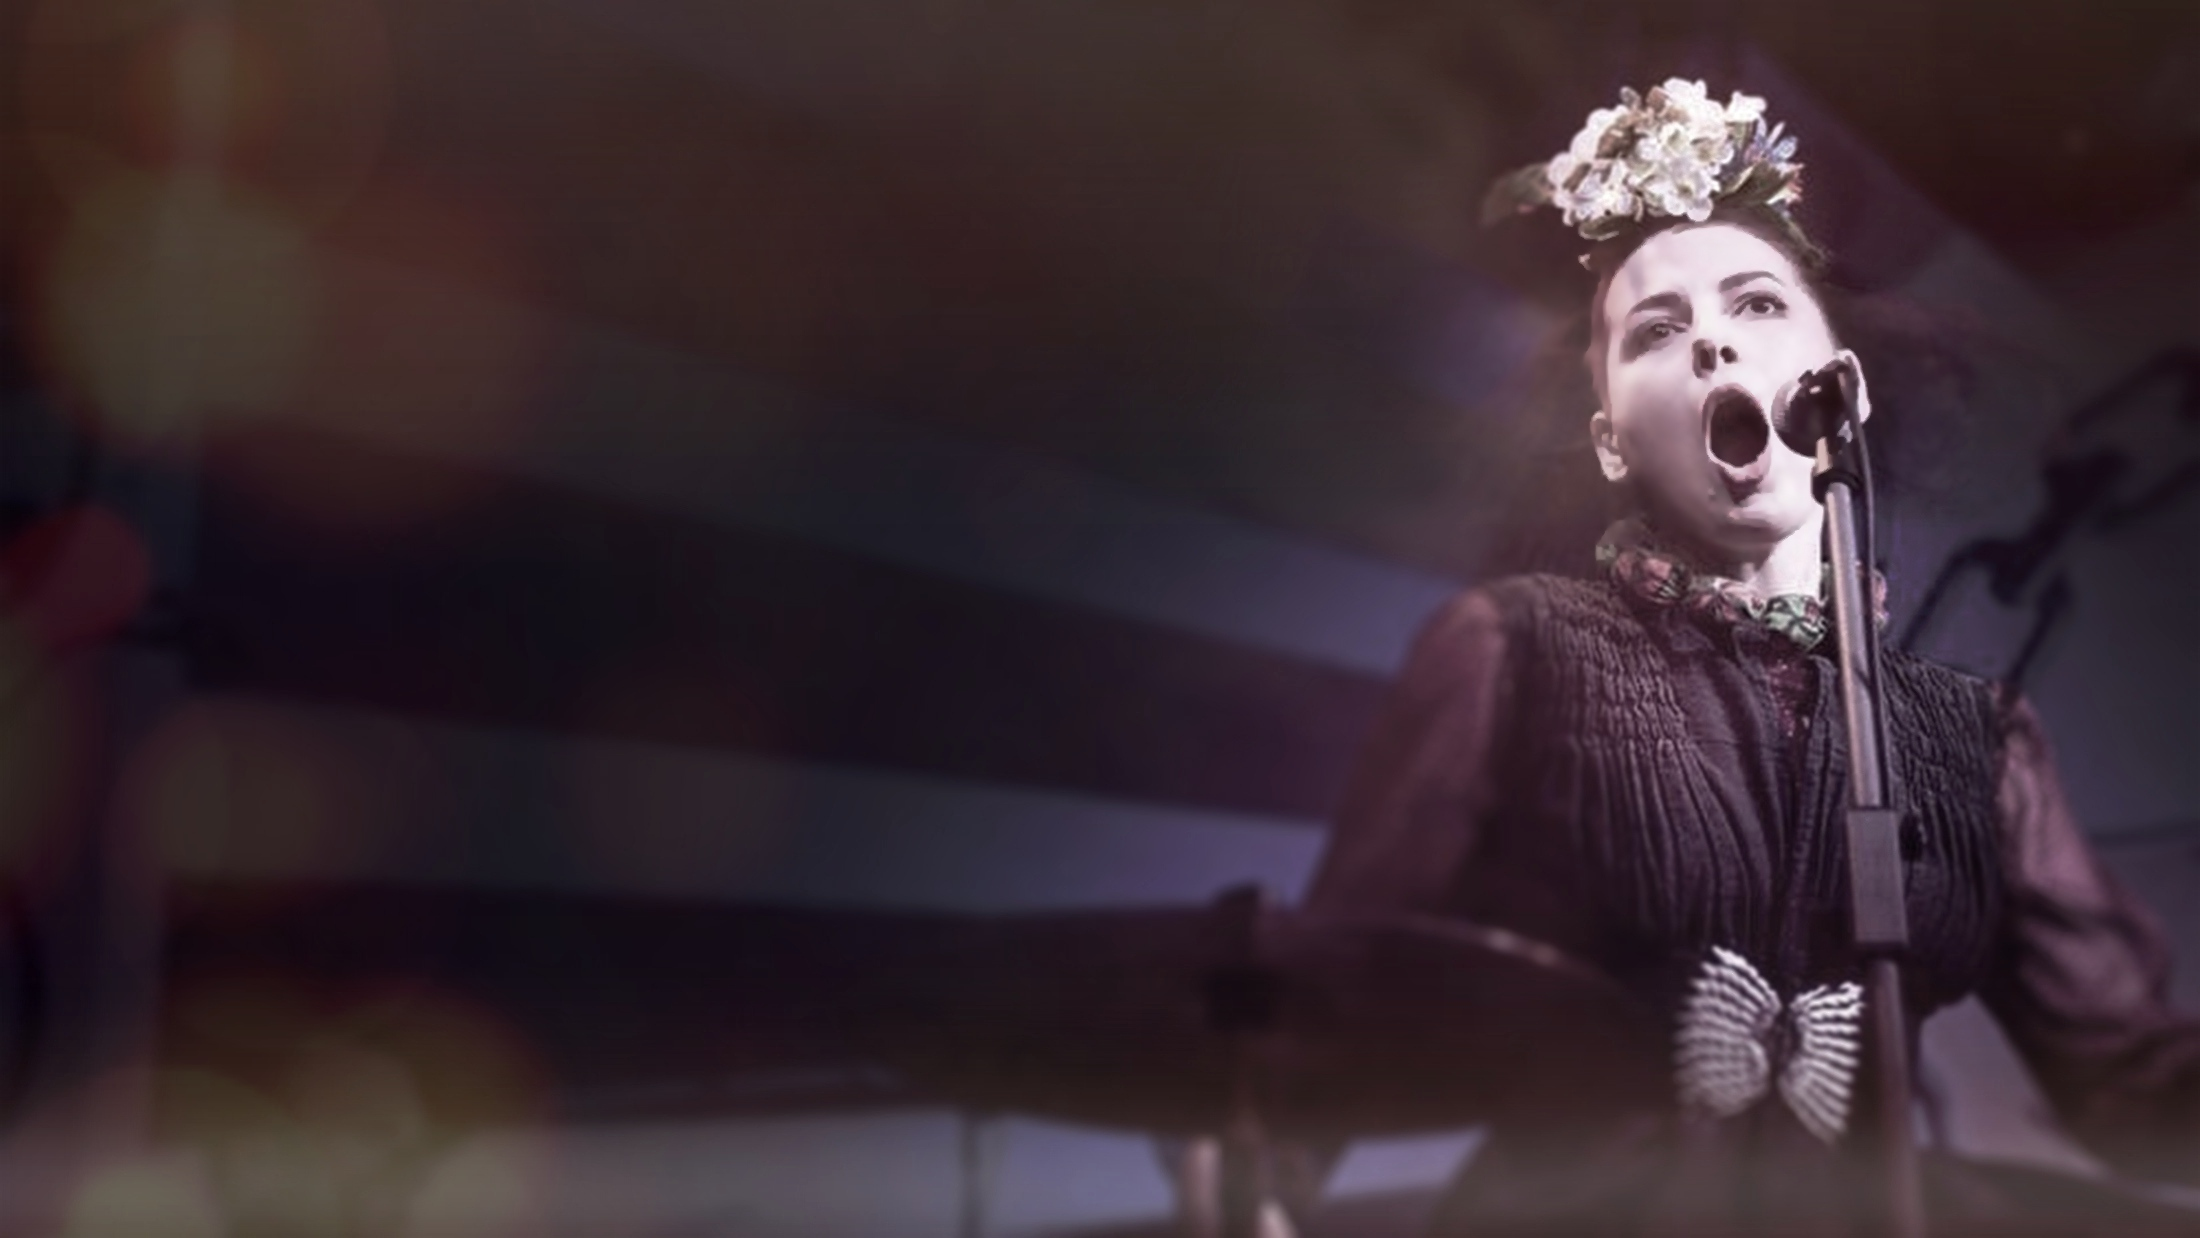
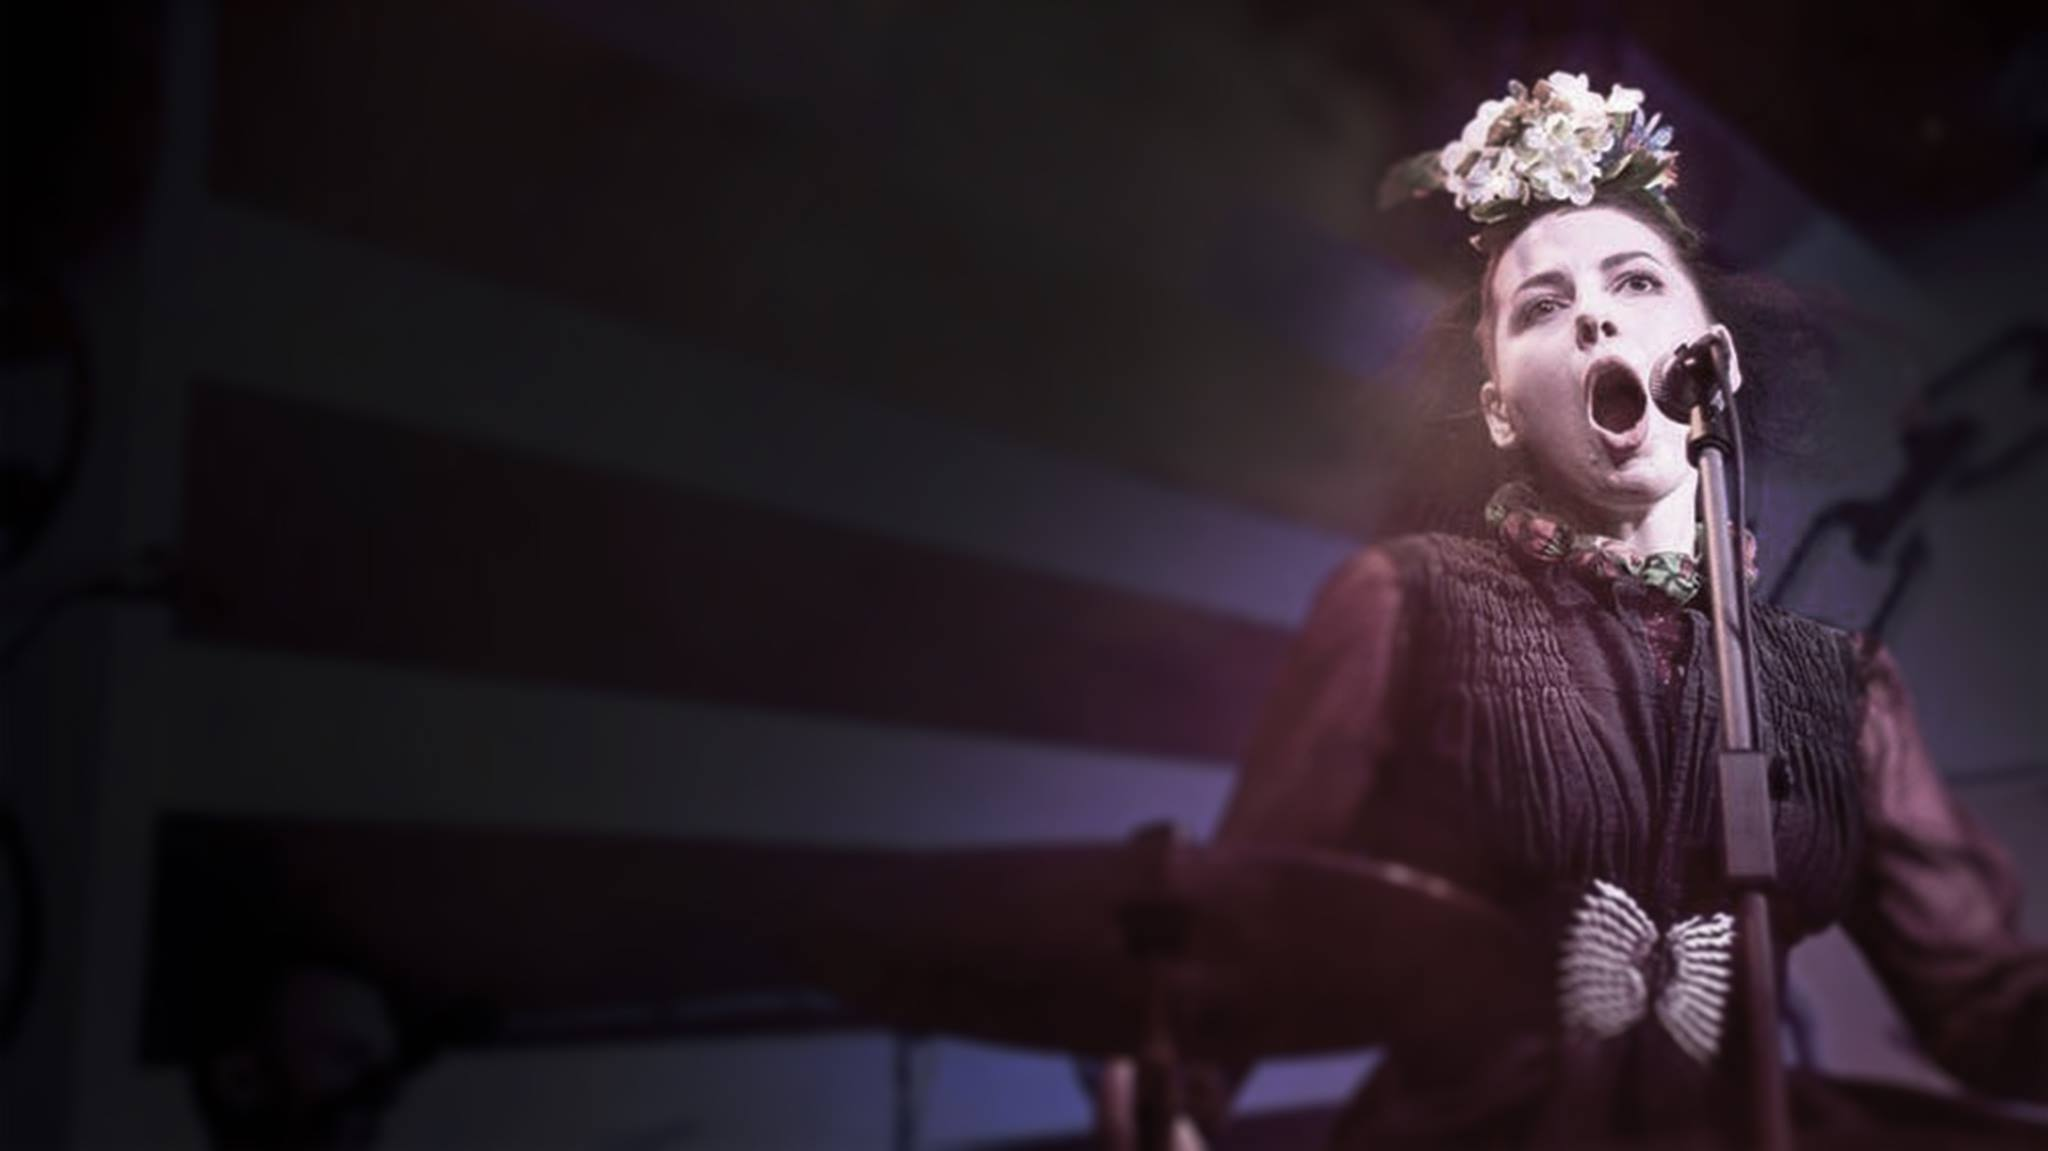
Video design changed, \Soundcloud player added

diff --git a/src/components/Albums.jsx b/src/components/Albums.jsx
@@ -1,7 +1,4 @@
 import React, { PropTypes } from 'react';
-import Col from 'react-bootstrap/lib/Col';
-import Grid from 'react-bootstrap/lib/Grid';
-import Row from 'react-bootstrap/lib/Row';
 
 class Albums extends React.Component {
   constructor(props) {
@@ -9,27 +6,10 @@ class Albums extends React.Component {
     this.state = { currentVideoIndex: 0 };
   }
   render() {
-    const items = [];
-    this.props.soundCloudTrack.forEach((item, index) => {
-      items.push(
-        <Col key={index} lg={3} sm={6} xs={12} md={3}>
-          <iframe
-            width="100%"
-            scrolling="no"
-            frameBorder="no"
-            src={item.trackSrc}
-          />
-        </Col>
-      );
-    });
     return (
       <div className="container">
         <h3 className="text-center">{this.props.header}</h3>
-        <Grid>
-          <Row>
-            {items}
-          </Row>
-        </Grid>
+        <iframe width="100%" height="680" frameBorder="0" scrolling="no" src="https://w.soundcloud.com/player/?url=https%3A//api.soundcloud.com/playlists/127053898&amp;color=ff5500&amp;auto_play=false&amp;hide_related=false&amp;show_comments=true&amp;show_user=true&amp;show_reposts=false" />
       </div>
     );
   }

diff --git a/src/components/Music.jsx b/src/components/Music.jsx
@@ -2,7 +2,6 @@ import React, { PropTypes } from 'react';
 import Col from 'react-bootstrap/lib/Col';
 import Grid from 'react-bootstrap/lib/Grid';
 import Row from 'react-bootstrap/lib/Row';
-import Thumbnail from 'react-bootstrap/lib/Thumbnail';
 
 class Music extends React.Component {
   constructor(props) {
@@ -23,8 +22,9 @@ class Music extends React.Component {
         <Col key={index} xs={6} md={3}>
           <button className="thumbnail" title={item.alt} onClick={this.onVideoSelect} value={index}>
             <img className="videoThumbnail" alt={item.alt} src={item.photoSrc} />
+            <img className="videoBtn" alt="" src="../Images/button.png" />
           </button>
-        </Col>
+        </Col>,
       );
     });
     return (

diff --git a/src/styles/styles.scss b/src/styles/styles.scss
@@ -124,11 +124,24 @@
     padding: 0 0 15px 0;
     border: none;
     border-radius: 0;
+
+    > img.videoThumbnail {
+        position: relative;
+        z-index: 1;
+    }
 }
 
 .thumbnail p {
     margin-top: 15px;
     color: #555;
+}
+
+.videoBtn {
+    position: absolute;
+    width: 20%;
+    z-index: 100;
+    left: 40%;
+    top: (50% - 20% * 1.42 / 2);
 }
 
 /* Black buttons with extra padding and without rounded borders */
@@ -234,4 +247,3 @@ a:active {
     padding-left: 15px;
   }
 }
-
